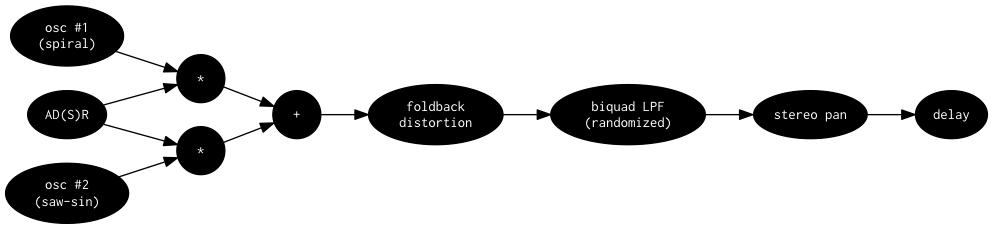
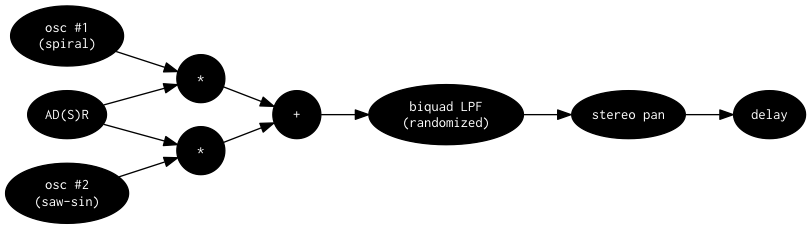
update readme, remove foldback from ex06 (still used in ex07)

diff --git a/src/ex06/main.c b/src/ex06/main.c
@@ -4,7 +4,6 @@
 #include "adsr.h"
 #include "biquad.h"
 #include "delay.h"
-#include "foldback.h"
 #include "node_ops.h"
 #include "osc.h"
 #include "panning.h"
@@ -78,14 +77,13 @@ static void init_voice(CTSS_Synth *synth, CTSS_DSPStack *stack) {
   CTSS_DSPNode *osc1 = ctss_osc("osc1", ctss_process_osc_spiral, 0, 0, 0.3f, 0);
   CTSS_DSPNode *osc2 = ctss_osc("osc2", ctss_process_osc_sawsin, 0, 0, 0.3f, 0);
   CTSS_DSPNode *sum  = ctss_op4("sum", osc1, env, osc2, env, ctss_process_madd);
-  CTSS_DSPNode *fb   = ctss_foldback("fb", sum, 1.0, 1.0f);
   CTSS_DSPNode *filter =
-      ctss_filter_biquad("filter", LPF, fb, 1000.0f, 0.0f, 0.5f);
+      ctss_filter_biquad("filter", LPF, sum, 1000.0f, 0.0f, 0.5f);
   CTSS_DSPNode *pan = ctss_panning("pan", filter, synth->lfo[1], 0.0f);
   CTSS_DSPNode *delay =
       ctss_delay("delay", pan, (uint32_t)(SAMPLE_RATE * 0.125f), 0.6f, 2);
-  CTSS_DSPNode *nodes[] = {env, osc1, osc2, sum, fb, filter, pan, delay};
-  ctss_build_stack(stack, nodes, 8);
+  CTSS_DSPNode *nodes[] = {env, osc1, osc2, sum, filter, pan, delay};
+  ctss_build_stack(stack, nodes, 7);
 }
 
 static void trigger_note() {
